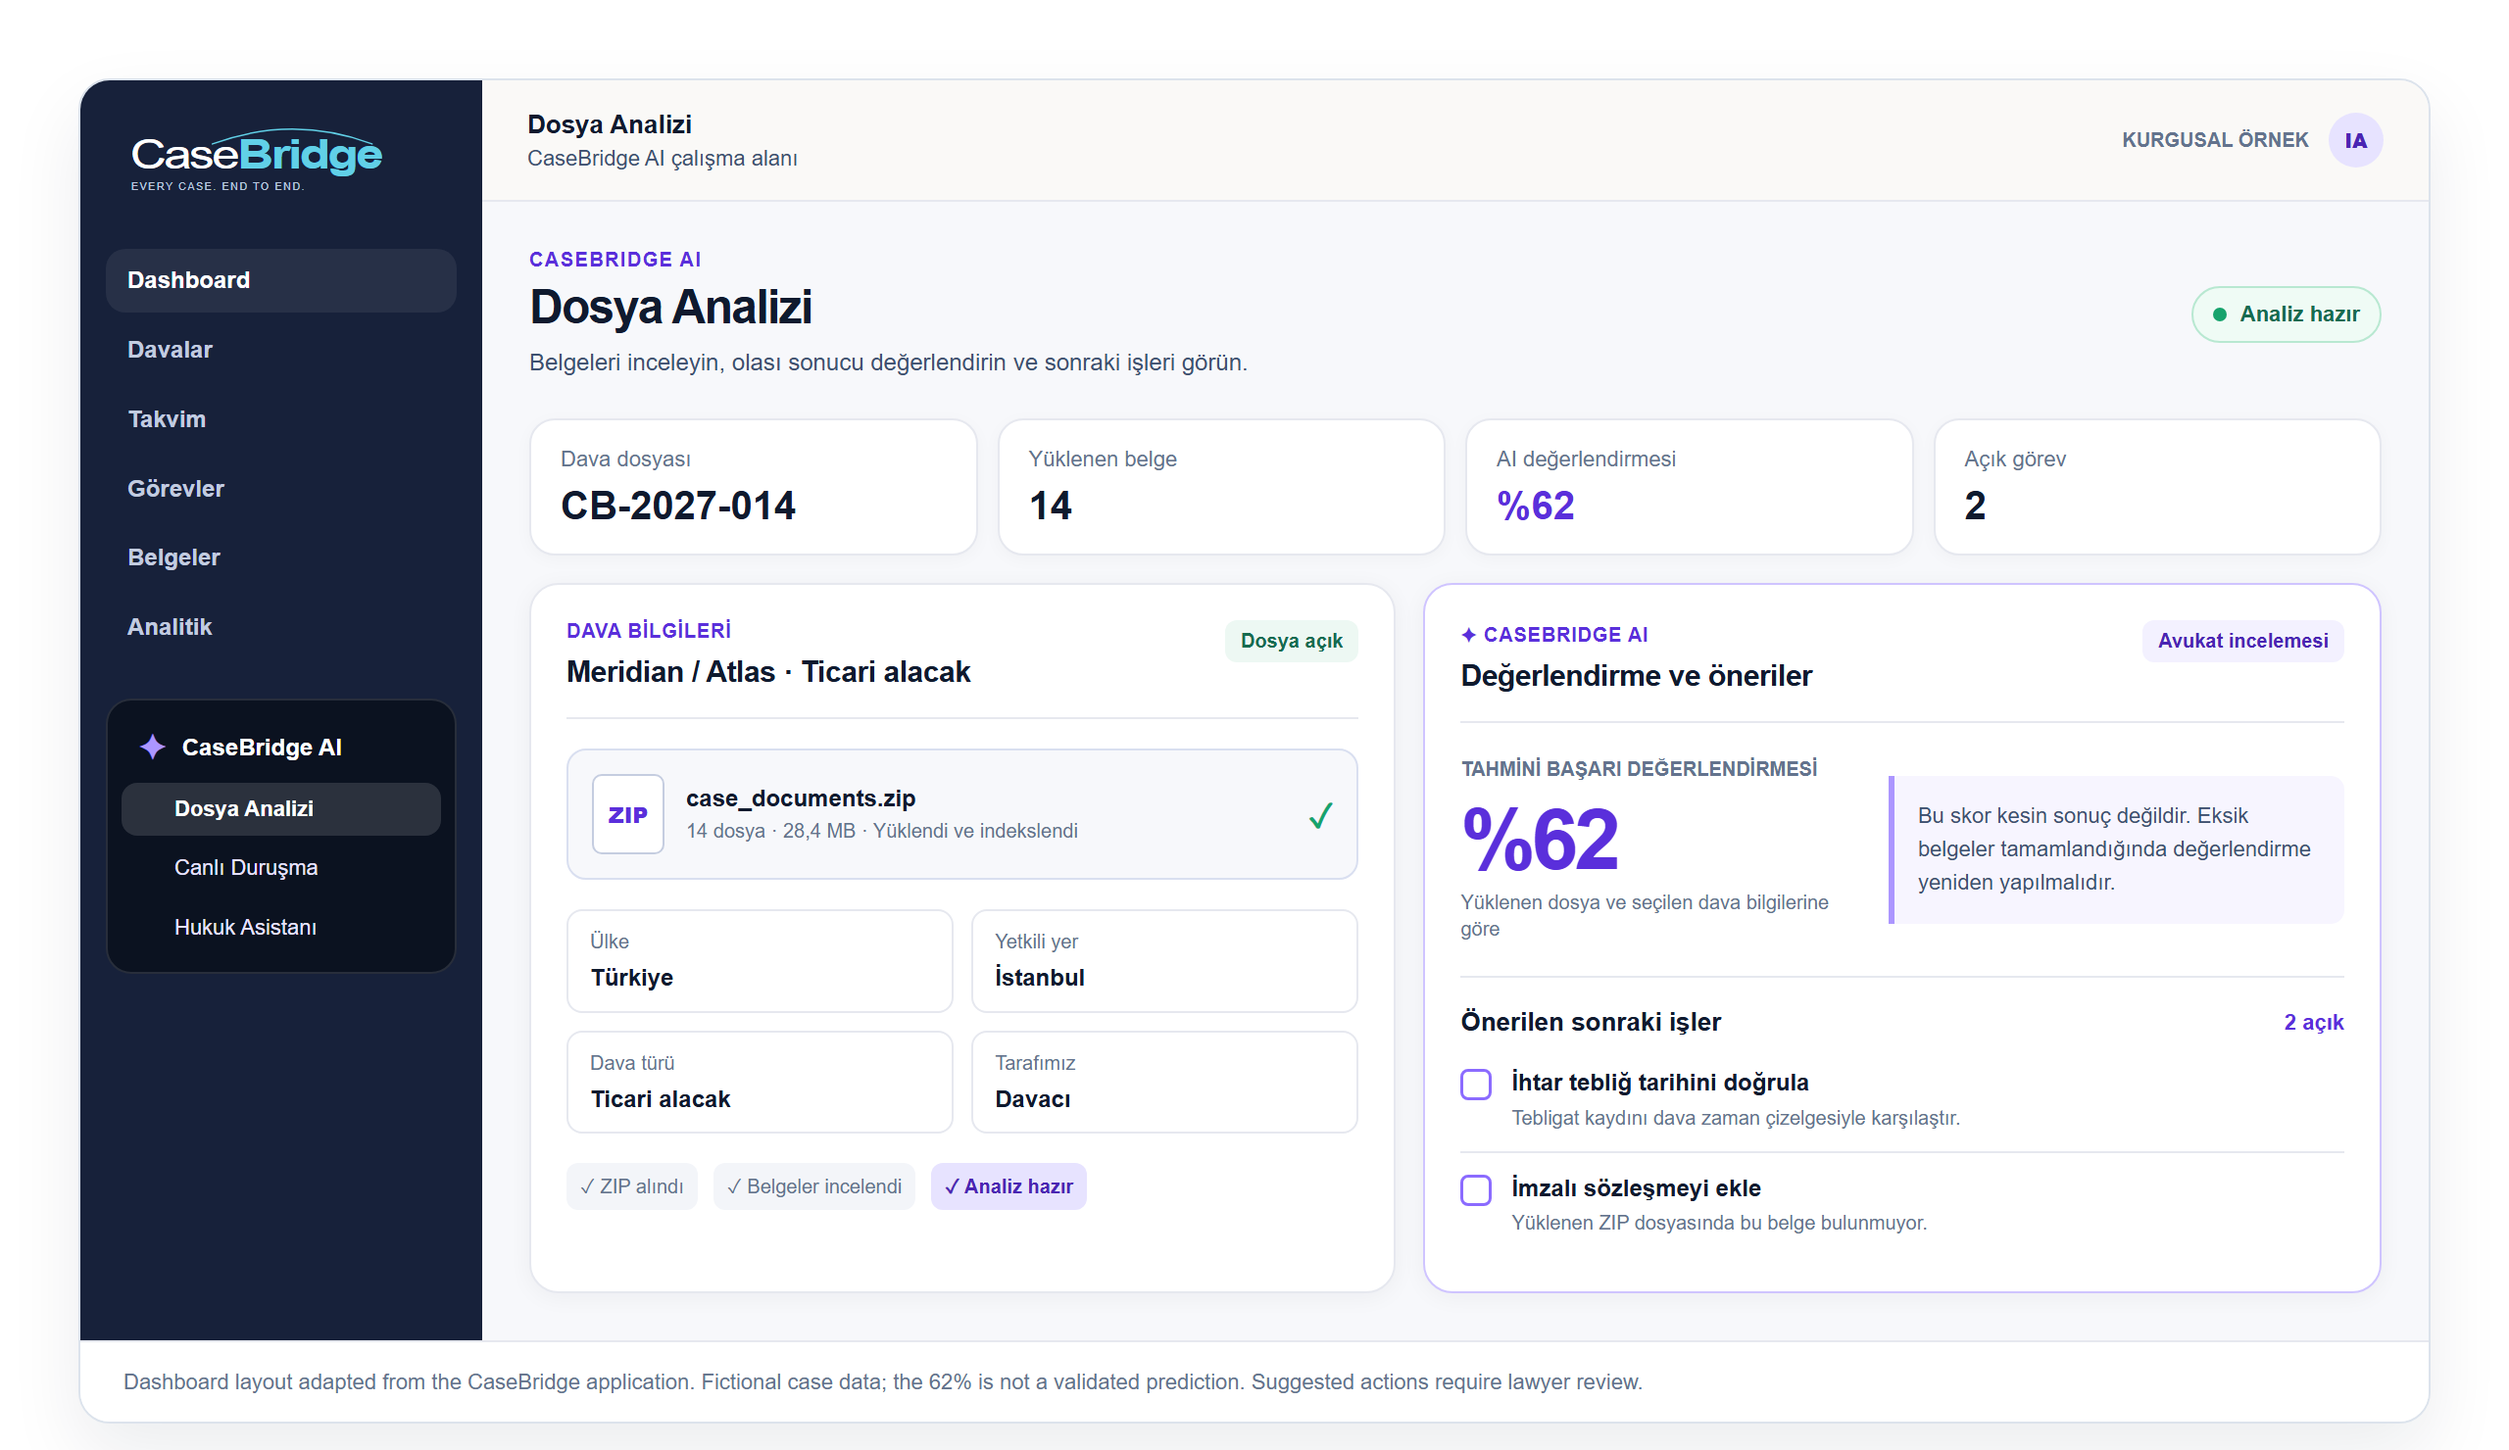
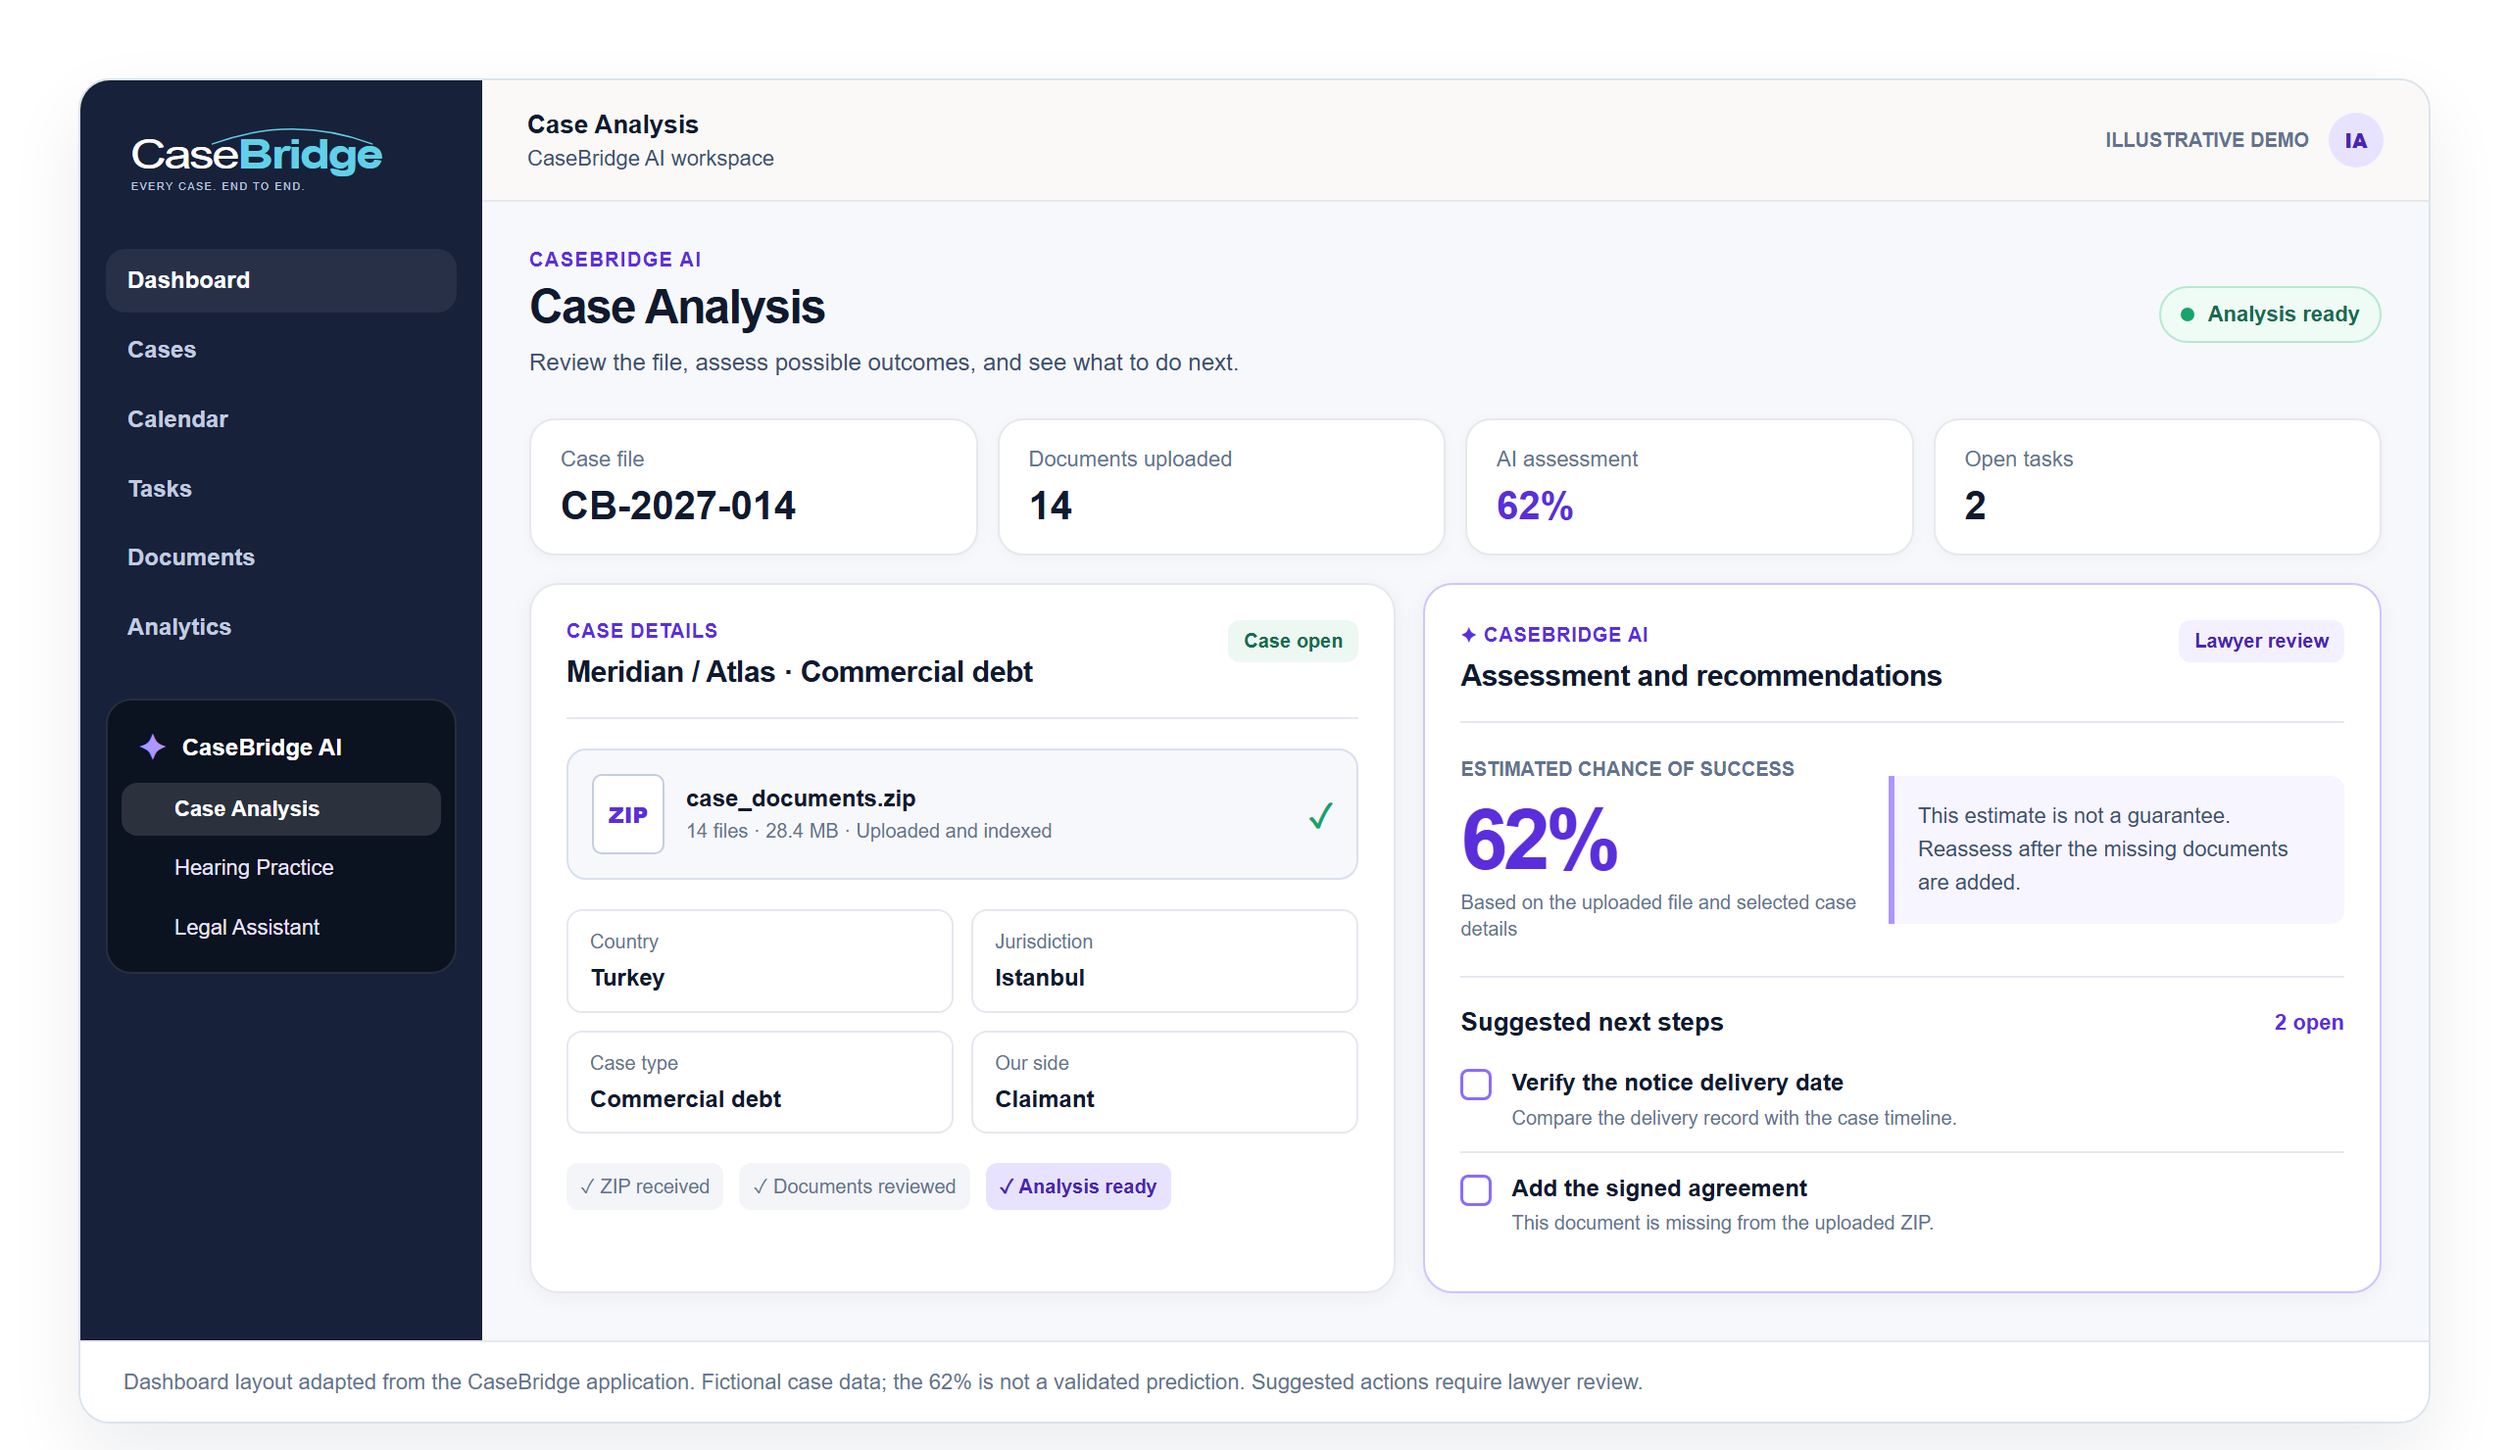
Translate dashboard preview to English

diff --git a/web-page/previews/dashboard-preview.html b/web-page/previews/dashboard-preview.html
@@ -1,11 +1,11 @@
 <!doctype html><html lang="en"><head><meta charset="utf-8"><meta name="viewport" content="width=device-width, initial-scale=1"><base href="../"><title>CaseBridge dashboard preview</title><link rel="stylesheet" href="styles.css"><link rel="stylesheet" href="hero-outcome.css"><style>html,body{margin:0;min-height:100%;background:#fff}.preview-stage{width:min(1200px,calc(100% - 80px));margin:40px auto}</style></head><body><main class="preview-stage"><figure class="outcome-preview" aria-labelledby="outcome-title" aria-describedby="outcome-caption">
         <div class="demo-shell">
-          <aside class="demo-sidebar" aria-label="Illustrative CaseBridge navigation"><img src="assets/casebridge-e2e-dark.svg" alt="CaseBridge" width="174" height="50"><nav aria-label="Application sections"><span>Dashboard</span><span>Davalar</span><span>Takvim</span><span>Görevler</span><span>Belgeler</span><span>Analitik</span></nav><div class="demo-ai-nav"><strong><span aria-hidden="true">✦</span> CaseBridge AI</strong><span class="is-current">Dosya Analizi</span><span>Canlı Duruşma</span><span>Hukuk Asistanı</span></div></aside>
-          <div class="demo-workspace"><div class="demo-topbar"><div><strong>Dosya Analizi</strong><span>CaseBridge AI çalışma alanı</span></div><span class="demo-user">KURGUSAL ÖRNEK <b aria-hidden="true">IA</b></span></div>
-            <div class="demo-page"><div class="demo-page-heading"><div><p>CASEBRIDGE AI</p><h2 id="outcome-title">Dosya Analizi</h2><span>Belgeleri inceleyin, olası sonucu değerlendirin ve sonraki işleri görün.</span></div><span class="demo-ready"><i aria-hidden="true"></i> Analiz hazır</span></div>
-              <div class="demo-stats" aria-label="Illustrative case overview"><div><span>Dava dosyası</span><strong>CB-2027-014</strong></div><div><span>Yüklenen belge</span><strong>14</strong></div><div><span>AI değerlendirmesi</span><strong>%62</strong></div><div><span>Açık görev</span><strong>2</strong></div></div>
-              <div class="demo-panels"><section class="demo-case-card" aria-labelledby="demo-case-title"><div class="demo-card-heading"><div><span>DAVA BİLGİLERİ</span><h3 id="demo-case-title">Meridian / Atlas · Ticari alacak</h3></div><span class="demo-case-state">Dosya açık</span></div><div class="demo-zip"><span class="demo-zip-icon" aria-hidden="true">ZIP</span><div><strong>case_documents.zip</strong><small>14 dosya · 28,4 MB · Yüklendi ve indekslendi</small></div><span class="demo-zip-check">✓</span></div><div class="demo-fields" aria-label="Selected case settings"><div><span>Ülke</span><strong>Türkiye</strong></div><div><span>Yetkili yer</span><strong>İstanbul</strong></div><div><span>Dava türü</span><strong>Ticari alacak</strong></div><div><span>Tarafımız</span><strong>Davacı</strong></div></div><div class="demo-steps" aria-label="Analysis progress"><span>✓ ZIP alındı</span><span>✓ Belgeler incelendi</span><strong>✓ Analiz hazır</strong></div></section>
-                <section class="demo-ai-card" aria-labelledby="demo-ai-title"><div class="demo-card-heading"><div><span>✦ CASEBRIDGE AI</span><h3 id="demo-ai-title">Değerlendirme ve öneriler</h3></div><span class="demo-ai-badge">Avukat incelemesi</span></div><div class="demo-assessment"><div><span>TAHMİNİ BAŞARI DEĞERLENDİRMESİ</span><strong>%62</strong><small>Yüklenen dosya ve seçilen dava bilgilerine göre</small></div><p>Bu skor kesin sonuç değildir. Eksik belgeler tamamlandığında değerlendirme yeniden yapılmalıdır.</p></div><div class="demo-todos"><div class="demo-todo-head"><strong>Önerilen sonraki işler</strong><span>2 açık</span></div><div class="demo-todo"><span aria-hidden="true"></span><div><strong>İhtar tebliğ tarihini doğrula</strong><small>Tebligat kaydını dava zaman çizelgesiyle karşılaştır.</small></div></div><div class="demo-todo"><span aria-hidden="true"></span><div><strong>İmzalı sözleşmeyi ekle</strong><small>Yüklenen ZIP dosyasında bu belge bulunmuyor.</small></div></div></div></section></div>
+          <aside class="demo-sidebar" aria-label="Illustrative CaseBridge navigation"><img src="assets/casebridge-e2e-dark.svg" alt="CaseBridge" width="174" height="50"><nav aria-label="Application sections"><span>Dashboard</span><span>Cases</span><span>Calendar</span><span>Tasks</span><span>Documents</span><span>Analytics</span></nav><div class="demo-ai-nav"><strong><span aria-hidden="true">✦</span> CaseBridge AI</strong><span class="is-current">Case Analysis</span><span>Hearing Practice</span><span>Legal Assistant</span></div></aside>
+          <div class="demo-workspace"><div class="demo-topbar"><div><strong>Case Analysis</strong><span>CaseBridge AI workspace</span></div><span class="demo-user">ILLUSTRATIVE DEMO <b aria-hidden="true">IA</b></span></div>
+            <div class="demo-page"><div class="demo-page-heading"><div><p>CASEBRIDGE AI</p><h2 id="outcome-title">Case Analysis</h2><span>Review the file, assess possible outcomes, and see what to do next.</span></div><span class="demo-ready"><i aria-hidden="true"></i> Analysis ready</span></div>
+              <div class="demo-stats" aria-label="Illustrative case overview"><div><span>Case file</span><strong>CB-2027-014</strong></div><div><span>Documents uploaded</span><strong>14</strong></div><div><span>AI assessment</span><strong>62%</strong></div><div><span>Open tasks</span><strong>2</strong></div></div>
+              <div class="demo-panels"><section class="demo-case-card" aria-labelledby="demo-case-title"><div class="demo-card-heading"><div><span>CASE DETAILS</span><h3 id="demo-case-title">Meridian / Atlas · Commercial debt</h3></div><span class="demo-case-state">Case open</span></div><div class="demo-zip"><span class="demo-zip-icon" aria-hidden="true">ZIP</span><div><strong>case_documents.zip</strong><small>14 files · 28.4 MB · Uploaded and indexed</small></div><span class="demo-zip-check">✓</span></div><div class="demo-fields" aria-label="Selected case settings"><div><span>Country</span><strong>Turkey</strong></div><div><span>Jurisdiction</span><strong>Istanbul</strong></div><div><span>Case type</span><strong>Commercial debt</strong></div><div><span>Our side</span><strong>Claimant</strong></div></div><div class="demo-steps" aria-label="Analysis progress"><span>✓ ZIP received</span><span>✓ Documents reviewed</span><strong>✓ Analysis ready</strong></div></section>
+                <section class="demo-ai-card" aria-labelledby="demo-ai-title"><div class="demo-card-heading"><div><span>✦ CASEBRIDGE AI</span><h3 id="demo-ai-title">Assessment and recommendations</h3></div><span class="demo-ai-badge">Lawyer review</span></div><div class="demo-assessment"><div><span>ESTIMATED CHANCE OF SUCCESS</span><strong>62%</strong><small>Based on the uploaded file and selected case details</small></div><p>This estimate is not a guarantee. Reassess after the missing documents are added.</p></div><div class="demo-todos"><div class="demo-todo-head"><strong>Suggested next steps</strong><span>2 open</span></div><div class="demo-todo"><span aria-hidden="true"></span><div><strong>Verify the notice delivery date</strong><small>Compare the delivery record with the case timeline.</small></div></div><div class="demo-todo"><span aria-hidden="true"></span><div><strong>Add the signed agreement</strong><small>This document is missing from the uploaded ZIP.</small></div></div></div></section></div>
             </div>
           </div>
         </div>

diff --git a/web-page/index.html b/web-page/index.html
@@ -34,7 +34,7 @@
   <main id="main">
     <section class="story-hero wrap" id="overview">
       <div class="story-hero-copy"><p class="stage-label"><span></span>PROOF OF CONCEPT · 3 LAW FIRMS · TURKEY</p><h1>Know your odds.<br><span>Strengthen your case.</span></h1><p class="story-lead">CaseBridge is being built to estimate a case’s chance of success and show lawyers the evidence and arguments that could improve it.</p><div class="hero-actions"><a class="button button-red" href="#product">See how it works</a><a class="text-link" href="#financials">Investment &amp; growth →</a></div><p class="hero-note">Lawyer-led decisions. Currently a proof of concept with three Turkish firms; outcome estimates require validation and never guarantee a result.</p></div>
-      <figure class="dashboard-shot"><a href="assets/casebridge-dashboard-preview.png" target="_blank" rel="noopener noreferrer" aria-label="Open the CaseBridge dashboard preview at full size"><img src="assets/casebridge-dashboard-preview.png" alt="CaseBridge case analysis dashboard: ZIP case file uploaded, Türkiye and commercial debt selected, 62% illustrative assessment, and two suggested lawyer review tasks" width="2560" height="1480" decoding="async" fetchpriority="high"></a></figure>
+      <figure class="dashboard-shot"><a href="assets/casebridge-dashboard-preview.png?v=2" target="_blank" rel="noopener noreferrer" aria-label="Open the CaseBridge dashboard preview at full size"><img src="assets/casebridge-dashboard-preview.png?v=2" alt="CaseBridge case analysis dashboard in English: ZIP case file uploaded, Turkey and commercial debt selected, 62% illustrative assessment, and two suggested lawyer review tasks" width="2560" height="1480" decoding="async" fetchpriority="high"></a></figure>
     </section>
 
     <section class="roadmap-surface wrap section" id="roadmap"><h3 class="business-title">The one-, two- and five-year plan</h3><p class="business-intro">Year 1 starts in 2027. All customer counts below are targets, not current deployments. International expansion is conditional on funding, local validation and legal readiness.</p><div class="roadmap-grid"><article><p>YEAR 1 · 2027</p><h4>100+ Turkish law firms</h4><ul><li>Grow from three firms to a repeatable onboarding process.</li><li>Validate retention, usage costs and workflow quality.</li><li>Seek a $1.5m seed round, with US investors, to prepare global expansion.</li></ul></article><article><p>YEAR 2 · 2028</p><h4>10+ cross-border companies</h4><ul><li>Enter international-trade workflows with at least ten companies.</li><li>Target a US office and a US-led expansion team.</li><li>Validate a bounded jurisdiction and practice area before broad US distribution.</li></ul></article><article><p>YEAR 5 · 2031</p><h4>1,000+ companies</h4><ul><li>Serve at least 1,000 companies in the US and international-trade segment.</li><li>Target a separate base of 1,000 law-firm accounts.</li><li>Build a repeatable, rights-cleared licensing program with multiple buyers.</li></ul></article></div><p class="source-note">The US office, seed investment and global operations are future objectives. Today’s operating footprint remains Turkey only.</p></section>
